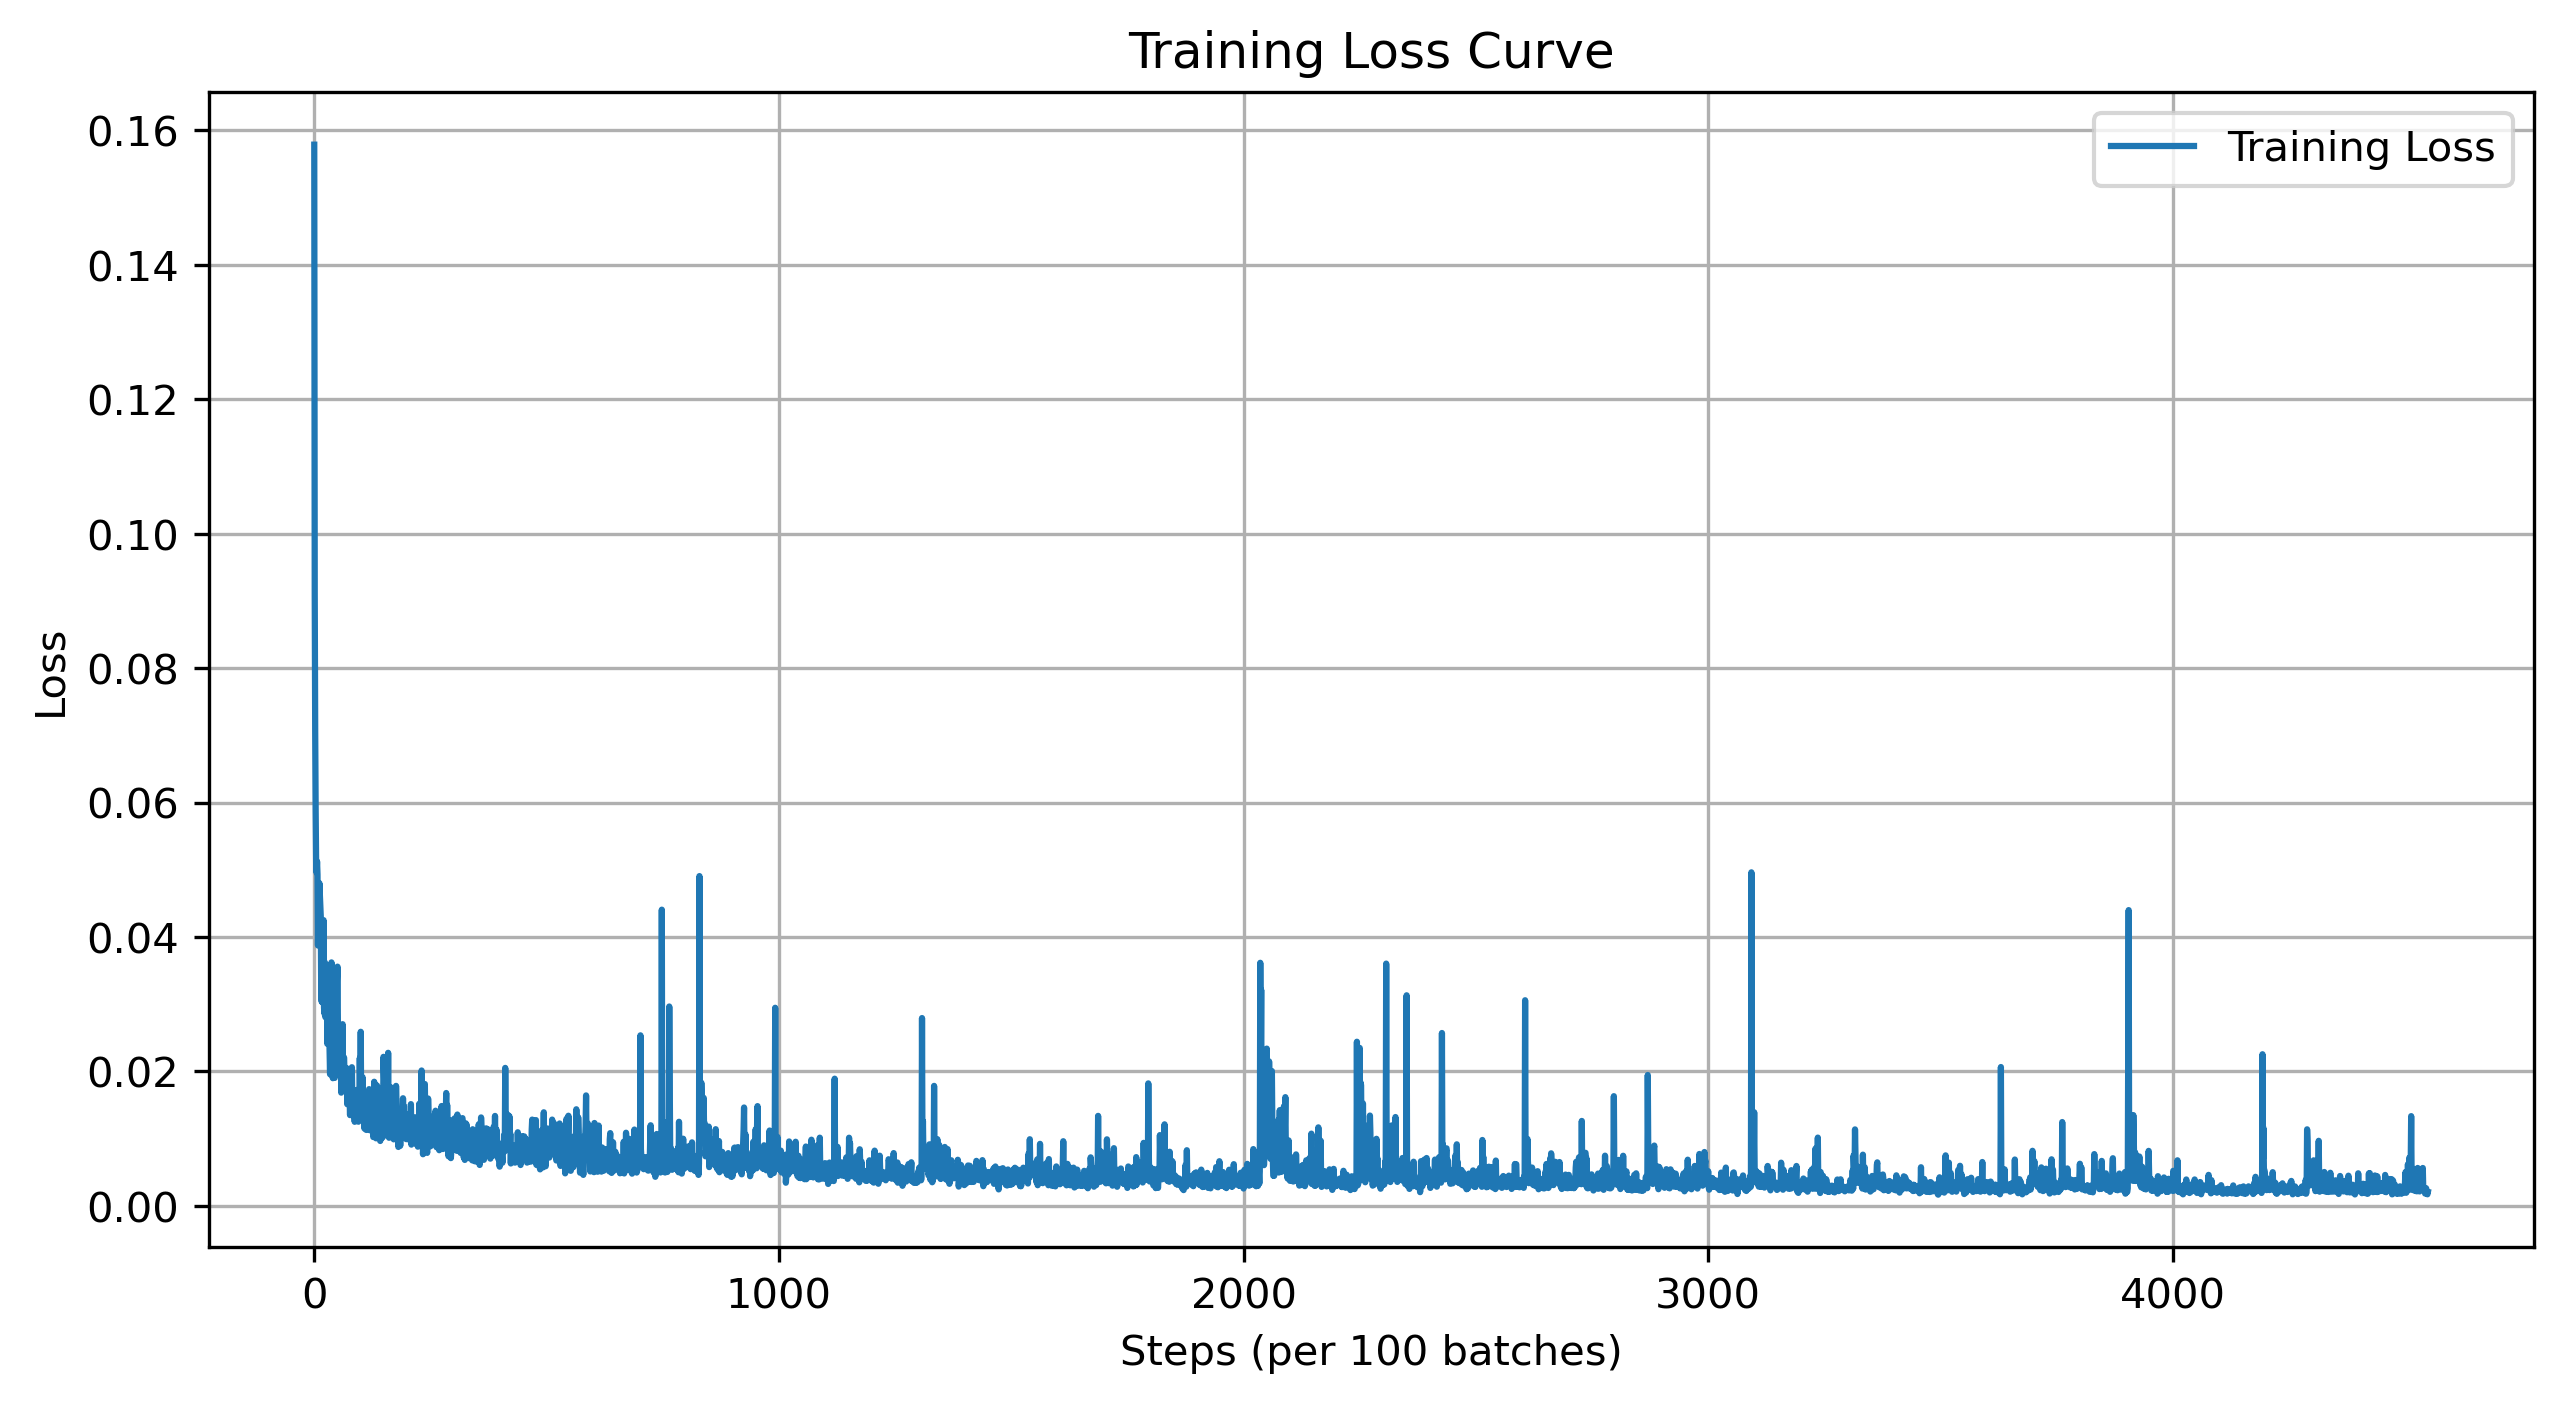
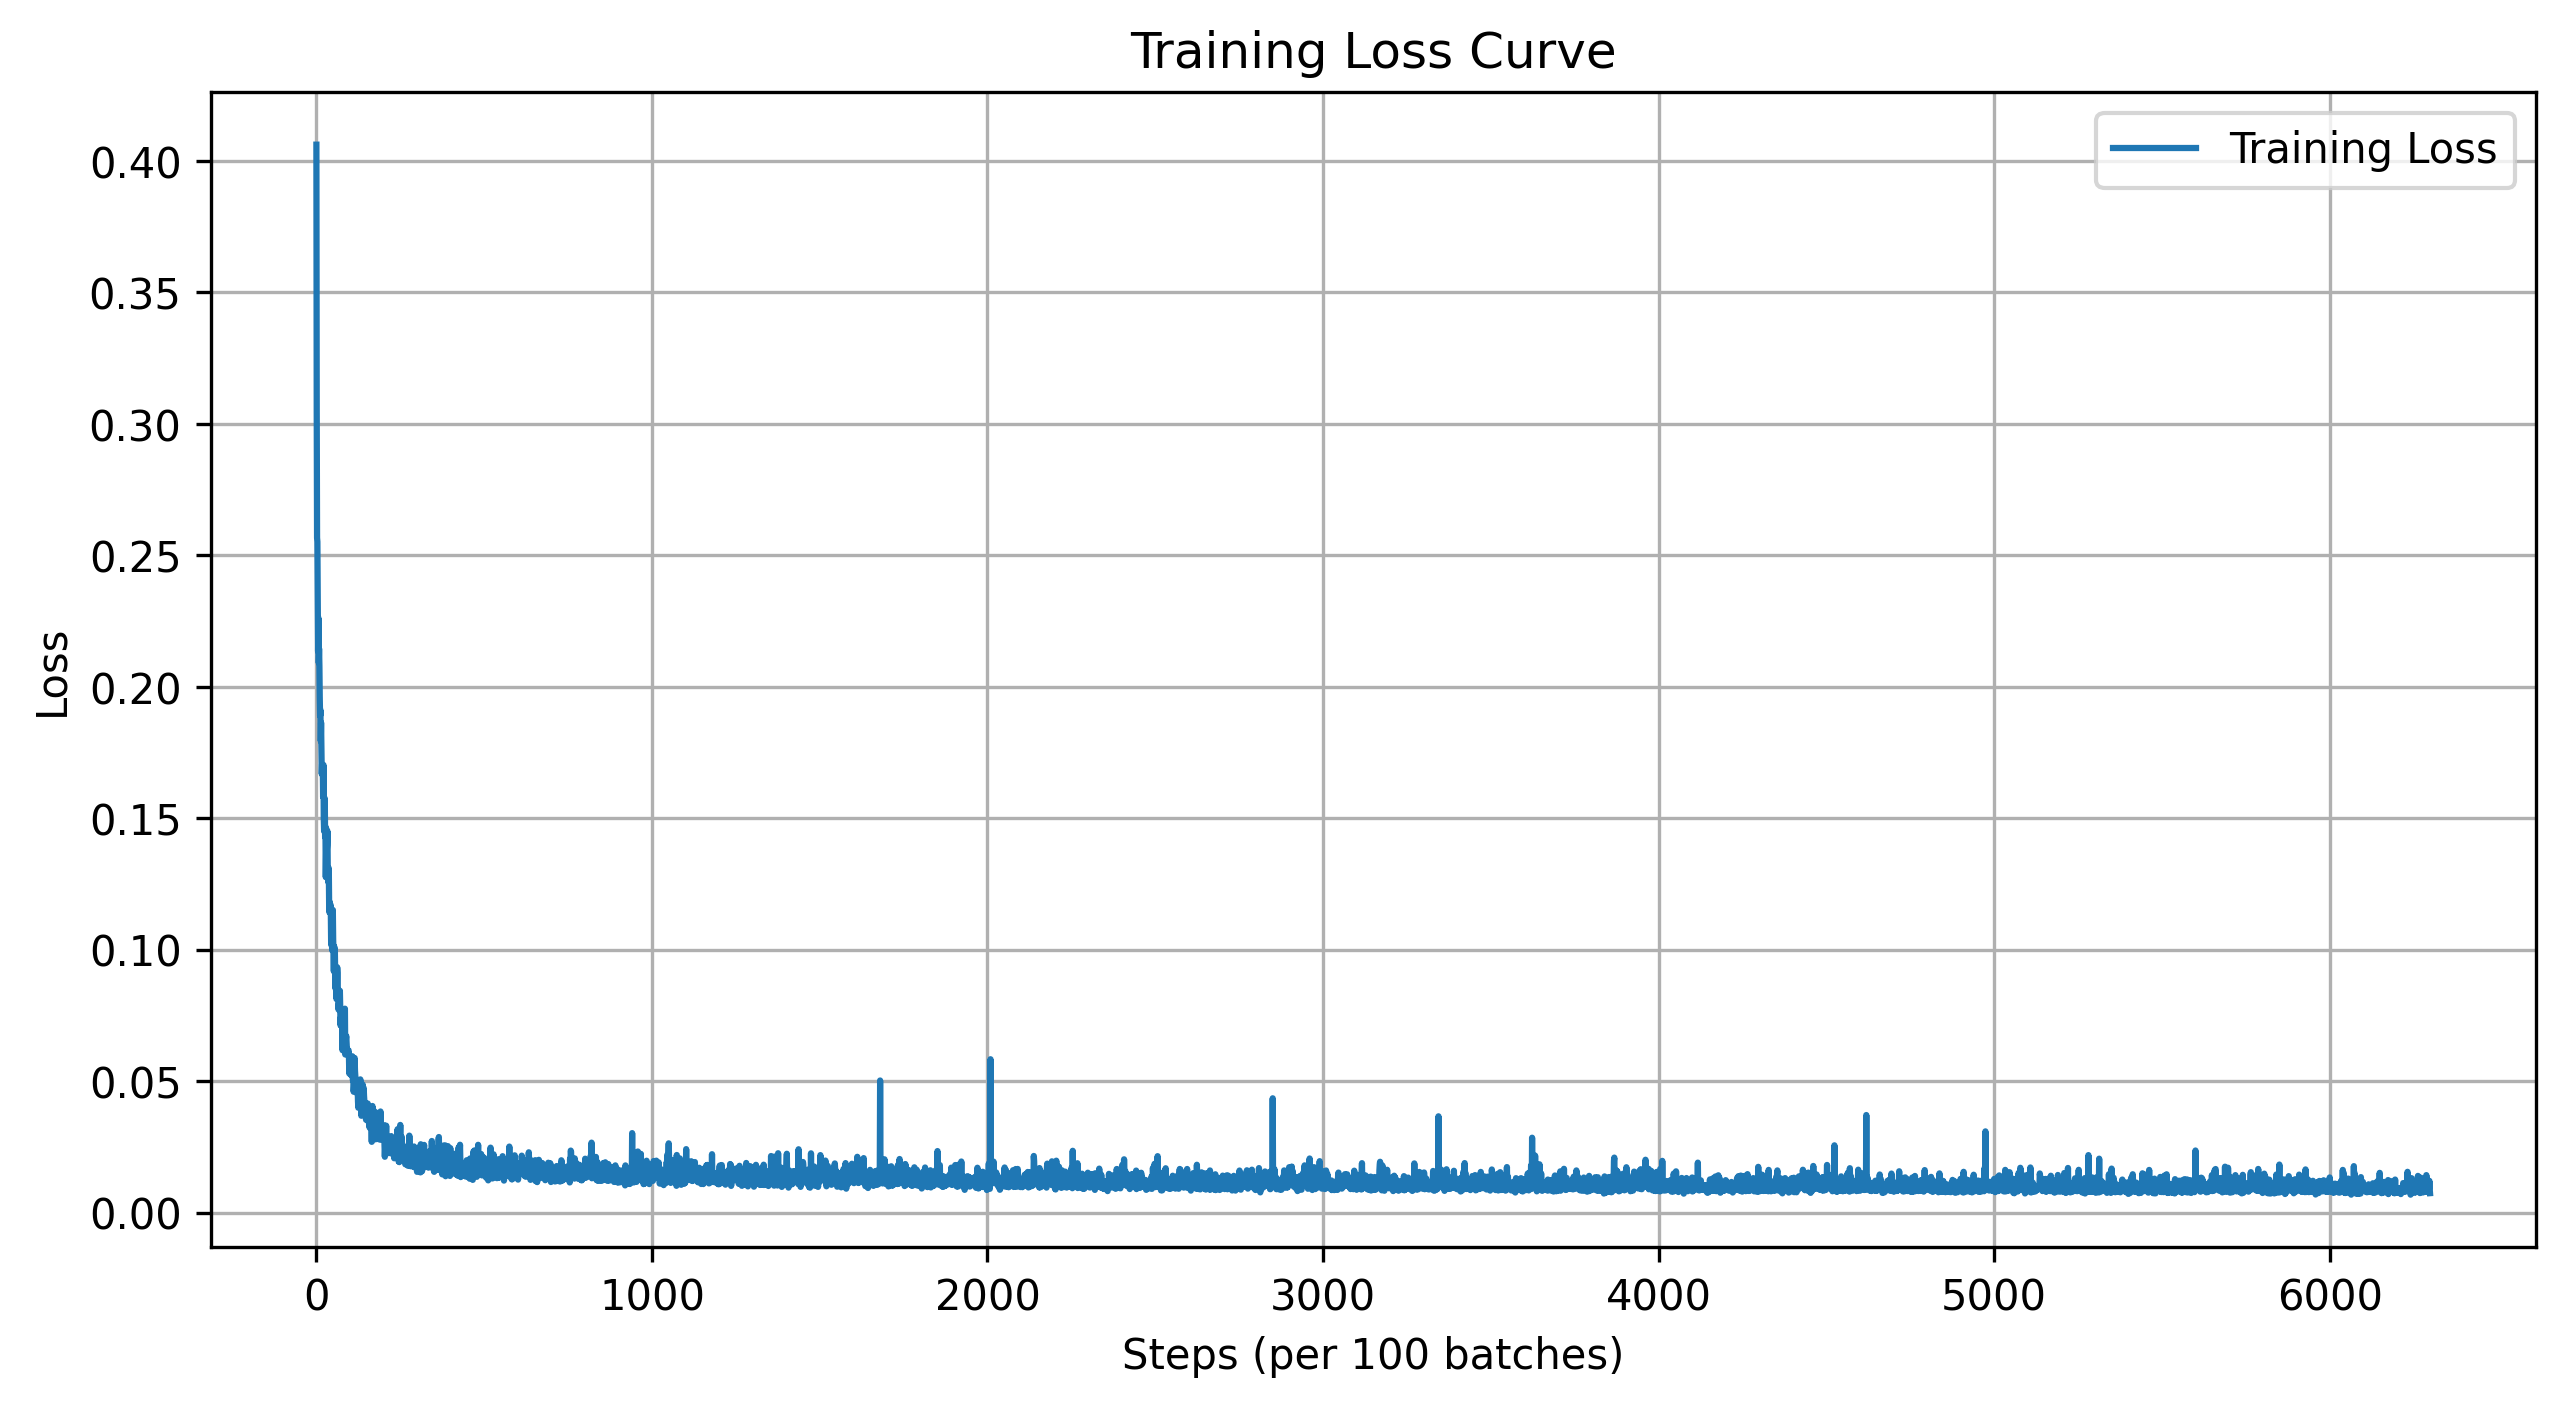
1.0

diff --git a/data.py b/data.py
@@ -3,9 +3,10 @@ from PIL import Image
 from torch.utils.data import Dataset
 import torchvision.transforms.functional as TF
 import random
+from tqdm import tqdm
 
 class Data(Dataset):
-    def __init__(self, root_dir, csize, repect=4):
+    def __init__(self, root_dir, csize, repect=20, cache_mode=False):
         self.root_dir = root_dir     # 数据集的根目录
         self.in_dir = os.path.join(root_dir, "input")   # 原图
         self.out_dir = os.path.join(root_dir, "output")     # 效果图
@@ -13,6 +14,22 @@ class Data(Dataset):
         self.filename = sorted(os.listdir(self.in_dir))  # 建立一个有序的文件列表
         self.csize = csize # 裁剪大小
         self.repect = repect   # 同一张图被裁剪多少次
+
+        self.cache_mode = cache_mode
+        self.cache = {}
+
+        # 数据预加载到内存
+        if self.cache_mode:
+            print(f"正在将 {len(self.filename)} 张图片预加载到内存...")
+            for i, name in tqdm(enumerate(self.filename), total=len(self.filename)):
+                input_path = os.path.join(self.in_dir, name)
+                output_path = os.path.join(self.out_dir, name)
+
+                img = Image.open(input_path).convert("RGB")
+                mask = Image.open(output_path).convert('L')
+
+                self.cache[i] = (img, mask)
+
 
     def __len__(self):
         return len(self.filename) * self.repect
@@ -38,19 +55,27 @@ class Data(Dataset):
 
         image = TF.to_tensor(image)
         mask = TF.to_tensor(mask)
-
+        
+        # 数据增强
+        if random.random() > 0.5:
+            image = TF.adjust_brightness(image, random.uniform(0.8, 1.2)) # 亮度
+        if random.random() > 0.5:
+            image = TF.adjust_contrast(image, random.uniform(0.8, 1.2))   # 对比度
 
         return image, mask
 
     def __getitem__(self, idx):
         idx =  idx % len(self.filename)
 
-        name = self.filename[idx]
-        input_path = os.path.join(self.in_dir, name)
-        output_path = os.path.join(self.out_dir, name)
+        if self.cache_mode:
+            image, mask = self.cache[idx]
+        else:
+            name = self.filename[idx]
+            input_path = os.path.join(self.in_dir, name)
+            output_path = os.path.join(self.out_dir, name)
 
-        image = Image.open(input_path).convert("RGB")
-        mask = Image.open(output_path).convert('L')
+            image = Image.open(input_path).convert("RGB")
+            mask = Image.open(output_path).convert('L')
 
         image, mask = self.transform(image, mask)
 

diff --git a/main.py b/main.py
@@ -1,26 +1,38 @@
-from torch.utils.data import DataLoader
 from data import Data
 from unet import UNet
 from train import train, test
-from torch.utils.data import random_split
+from torch.utils.data import random_split, DataLoader, ConcatDataset
 import torch
 import matplotlib.pyplot as plt
+import os
 
 if __name__ == "__main__":
-    root = "D:\\deli\\20250211\\dataset"
+    roots = [
+        "/root/autodl-tmp/deli/20250211/dataset",
+        "/root/autodl-tmp/deli/20250212/dataset",
+        "/root/autodl-tmp/deli/20250213/dataset"
+    ]
     
-    dataset = Data(root, (512,512))
+    datasets = []
 
-    train_size = int(0.9 * len(dataset))
-    test_size = len(dataset) - train_size
+    for r in roots:
+        if os.path.exists(r):
+            ds = Data(r, (512, 512), cache_mode=True)
+            datasets.append(ds)
 
-    train_dataset, test_dataset= random_split(dataset, [train_size, test_size]) 
+    full_dataset = ConcatDataset(datasets)
+
+    train_size = int(0.9 * len(full_dataset))
+    test_size = len(full_dataset) - train_size
+
+    train_dataset, test_dataset= random_split(full_dataset, [train_size, test_size]) 
 
     train_loader = DataLoader(
         train_dataset,
-        batch_size = 8, 
+        batch_size = 24, 
         shuffle = True, # 数据随机打乱
-        num_workers = 4, 
+        num_workers = 8, 
+        #prefetch_factor = 8,  # 预取
         pin_memory = True,  # 开启内存到显存的高速传输通道
         persistent_workers = True,  # 不销毁进程（加速）
         drop_last = True    # 数据不足时自动丢弃
@@ -28,9 +40,9 @@ if __name__ == "__main__":
     
     test_loader = DataLoader(
         test_dataset,
-        batch_size = 8, 
+        batch_size = 24, 
         shuffle = False, 
-        num_workers = 2, 
+        num_workers = 8, 
         pin_memory = True, 
         persistent_workers = False
         )
@@ -38,12 +50,14 @@ if __name__ == "__main__":
     device = torch.device("cuda" if torch.cuda.is_available() else "cpu")
     model = UNet(3,1).to(device)
 
-    loss_fn = torch.nn.MSELoss()
+    model = torch.compile(model) # 加速模型
+
+    loss_fn = torch.nn.L1Loss()
     optimizer = torch.optim.Adam(model.parameters(), lr=1e-4)
 
     best_loss = float('inf')
     tot_loss = []
-    epochs = 50
+    epochs = 35
 
     for epoch in range(epochs):
         print(f"\n--- Epoch {epoch+1}/{epochs} ---")

diff --git a/unet.py b/unet.py
@@ -90,13 +90,4 @@ class UNet(nn.Module):
         logits = self.out(x)
 
         return torch.sigmoid(logits)
-
-'''
-if __name__ == "__main__":
-    model = UNet(3, 1)
-    x = torch.randn(4, 3, 512, 512)
-    y = model(x)
-    print(x.shape)
-    print(y.shape)
-'''
         
